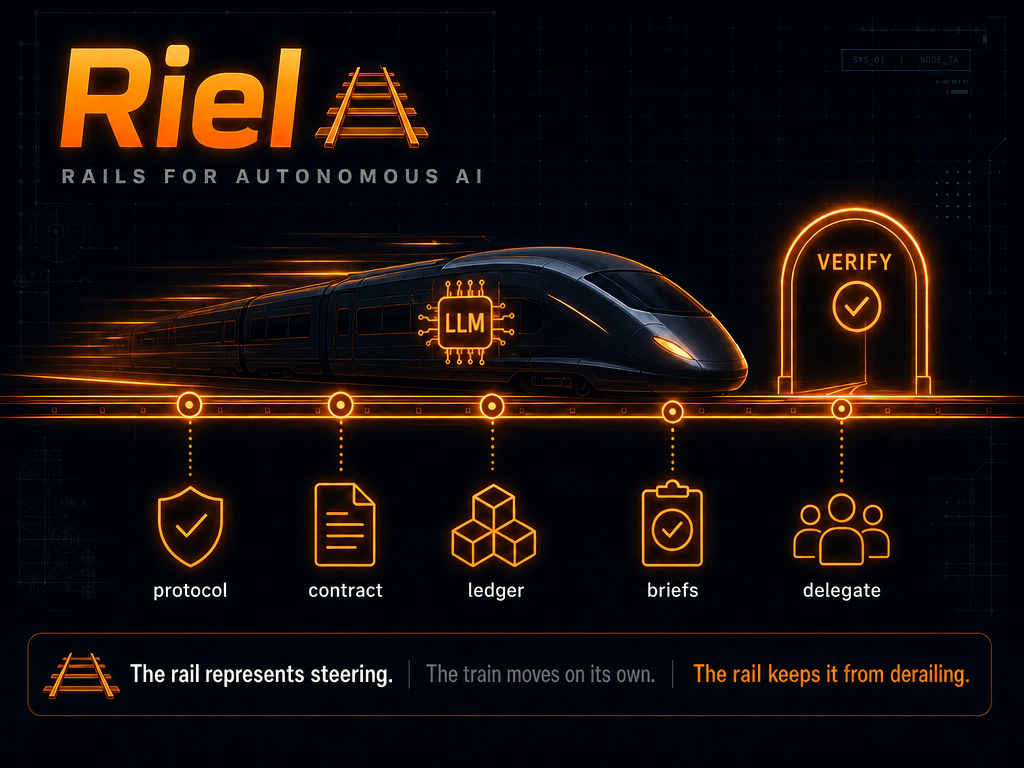
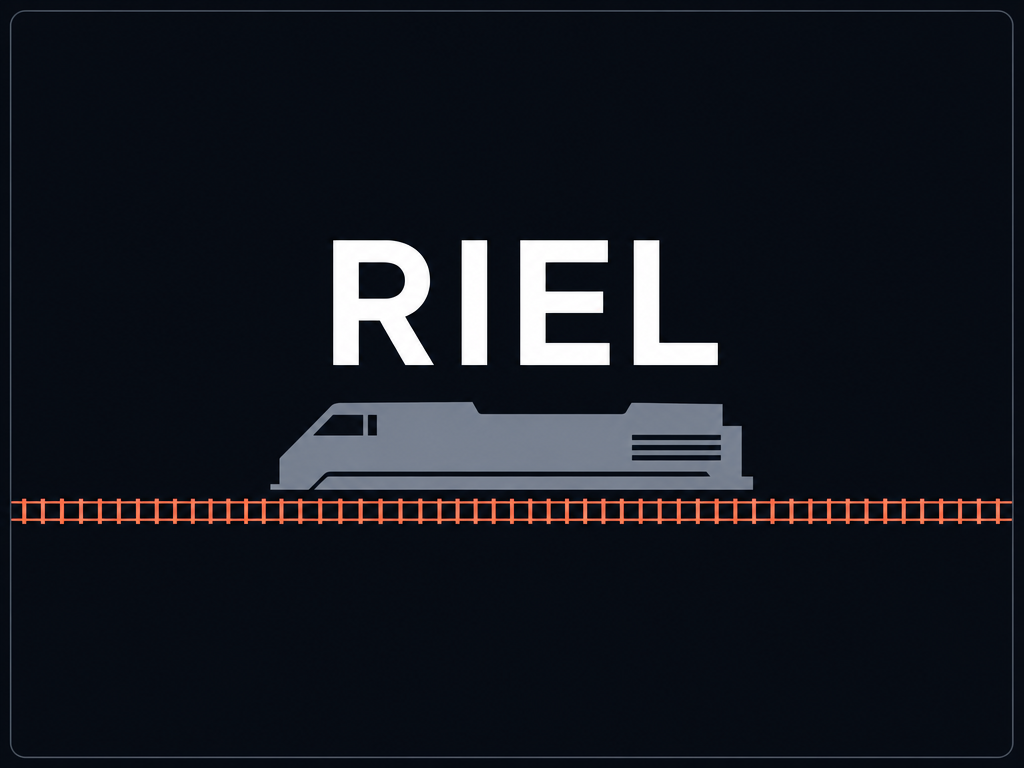
docs: regenerate header image, restore centered header
New riel-header.png: minimalist dark banner with single RIEL wordmark,
clean geometric train on rail. No taglines, no explanatory text.

diff --git a/README.md b/README.md
@@ -1,3 +1,5 @@
+<div align="center">
+
 # 🛤 Riel
 
 ### Steering Layer for Harness/LLM
@@ -6,7 +8,9 @@
 
 [![License: MIT](https://img.shields.io/badge/license-MIT-blue.svg)](LICENSE)
 
+![Riel](assets/riel-header.png)
 
+</div>
 
 A model can have a capability and still fail to deliver it: unstable
 trajectory, drifting state, missing verification. That gap — having it vs.
